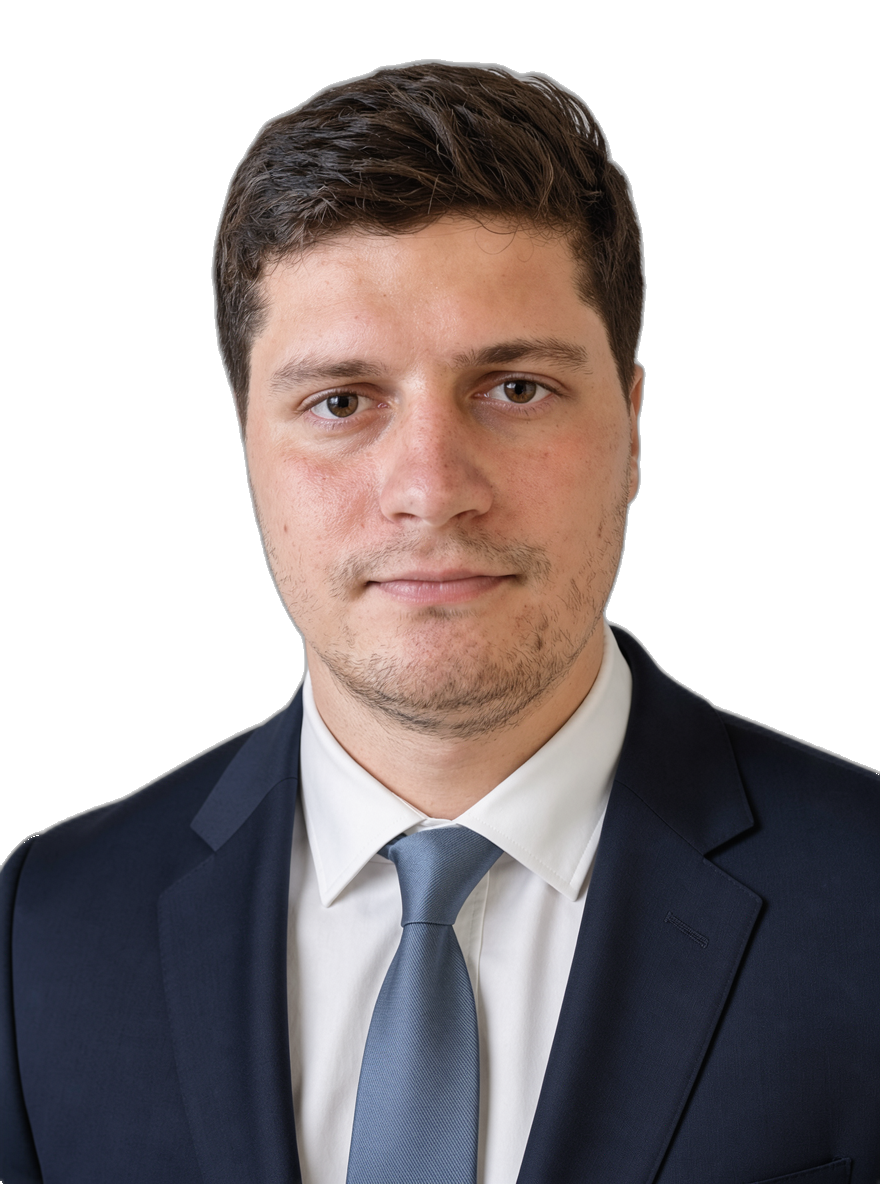
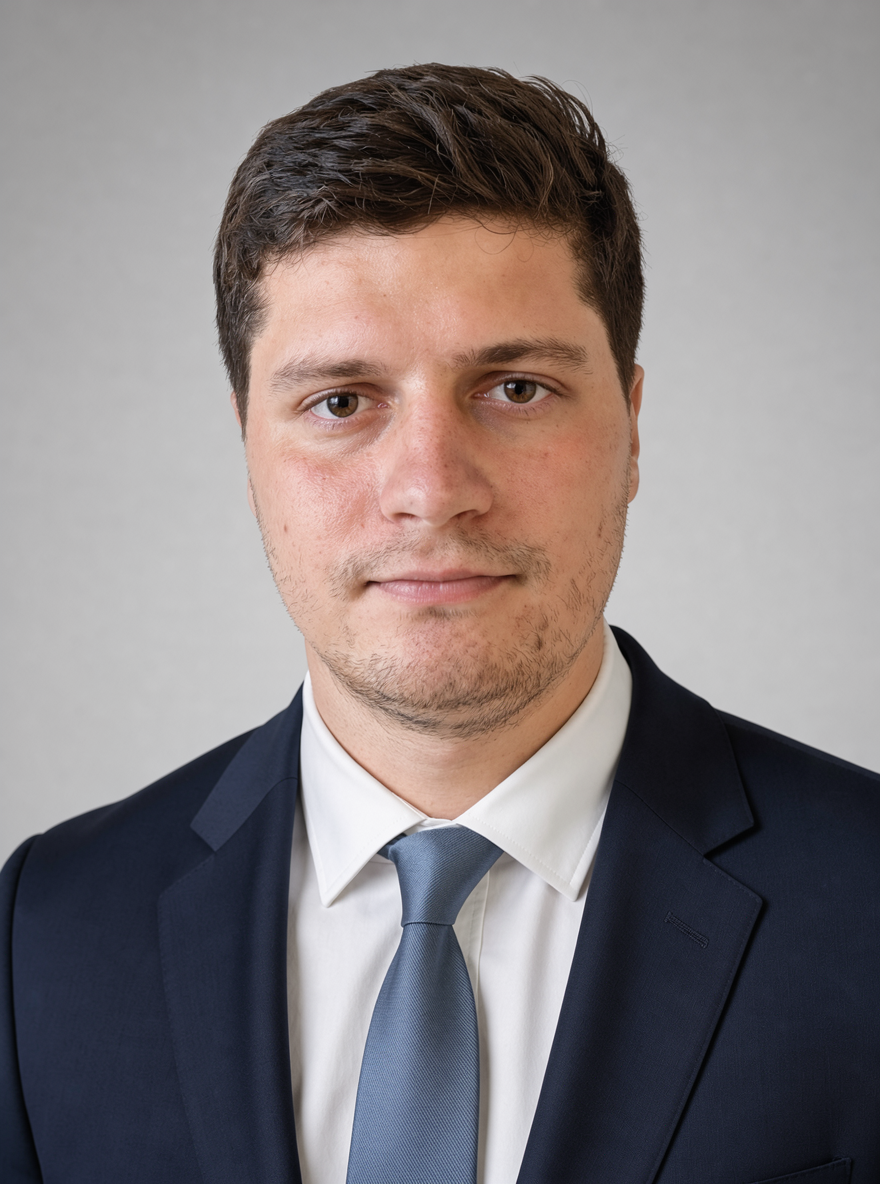
1

diff --git a/messages/ru.ts b/messages/ru.ts
@@ -2,8 +2,8 @@ import type { SiteMessages } from "./en";
 
 export const ruMessages: SiteMessages = {
   meta: {
-    title: "Shinka.DEV — Разработка сайтов и веб-приложений",
-    description: "Разработка сайтов, веб-приложений, Telegram Mini Apps и ботов.",
+    title: "Shinka.DEV — Разработка приложений, AI интеграций и cloud-native решений",
+    description: "Владимир Шинкаренко - AI engineer и Full-Stack разработчик.",
   },
   navbar: {
     brand: "Shinka.DEV",
@@ -18,10 +18,10 @@ export const ruMessages: SiteMessages = {
   hero: {
     scroll: "Скролл",
     status: "СИСТЕМА: АКТИВНА",
-    titleLine1: "АРХИТЕКТУРА",
-    titleLine2: "ЦИФРОВЫХ ЭКОСИСТЕМ",
+    titleLine1: "ИНЖЕНЕР",
+    titleLine2: "ЦИФРОВЫХ РЕШЕНИЙ",
     description:
-      "Шинкаренко Владимир - Senior IT Specialist и Full-Stack Engineer. Специализируюсь на высокопроизводительной инфраструктуре, cloud-native решениях и программных системах с инженерной точностью.",
+      "Шинкаренко Владимир - AI engineer и Full-Stack разработчик. Специализируюсь на приложениях, AI интеграциях и cloud-native решениях.",
     viewProjects: "СМОТРЕТЬ_ПРОЕКТЫ",
     downloadResume: "СКАЧАТЬ_РЕЗЮМЕ",
   },
@@ -30,11 +30,11 @@ export const ruMessages: SiteMessages = {
     sectionTitle: "ИНЖЕНЕР",
     yearsOfExperience: "ЛЕТ\nОПЫТА",
     description:
-      "Я соединяю сложную техническую инфраструктуру и бесшовный пользовательский опыт. Мой подход построен на эстетике CAD-чертежей: каждая строка кода и каждый серверный узел размещаются осознанно и точно.",
+      "Я решаю бизнес-задачи с помощью технологий и инноваций. Помогаю компаниям экономить время и ресурсы.",
     specializationLabel: "// СПЕЦИАЛИЗАЦИЯ",
-    specializationValue: "Облачная архитектура и DevOps-автоматизация",
+    specializationValue: "Приложения, AI интеграции и cloud-native решения",
     philosophyLabel: "// ФИЛОСОФИЯ",
-    philosophyValue: "Производительность - не опция, а фундамент.",
+    philosophyValue: "Технологии - не опция, а инструмент.",
   },
   projects: {
     heading: "КЛЮЧЕВЫЕ_РАБОТЫ",

diff --git a/components/About.tsx b/components/About.tsx
@@ -12,8 +12,8 @@ export default function About({ messages }: AboutProps) {
 
         {/* Portrait */}
         <div className="md:col-span-5 relative glass p-[5px] w-full">
-          <div className="relative overflow-hidden h-[342px] md:h-[489px] bg-[#131313]">
-            <img src={PORTRAIT} alt="Portrait" className="w-full h-full object-cover object-top" />
+          <div className="relative overflow-hidden h-[342px] md:h-[489px] bg-[#131313] flex items-center justify-center">
+            <img src={PORTRAIT} alt="Portrait" className="max-w-full max-h-full w-auto h-full object-contain" />
           </div>
           {/* Years badge */}
           <div className="absolute bottom-0 right-0 bg-[#ffb800] p-4 md:p-6">
